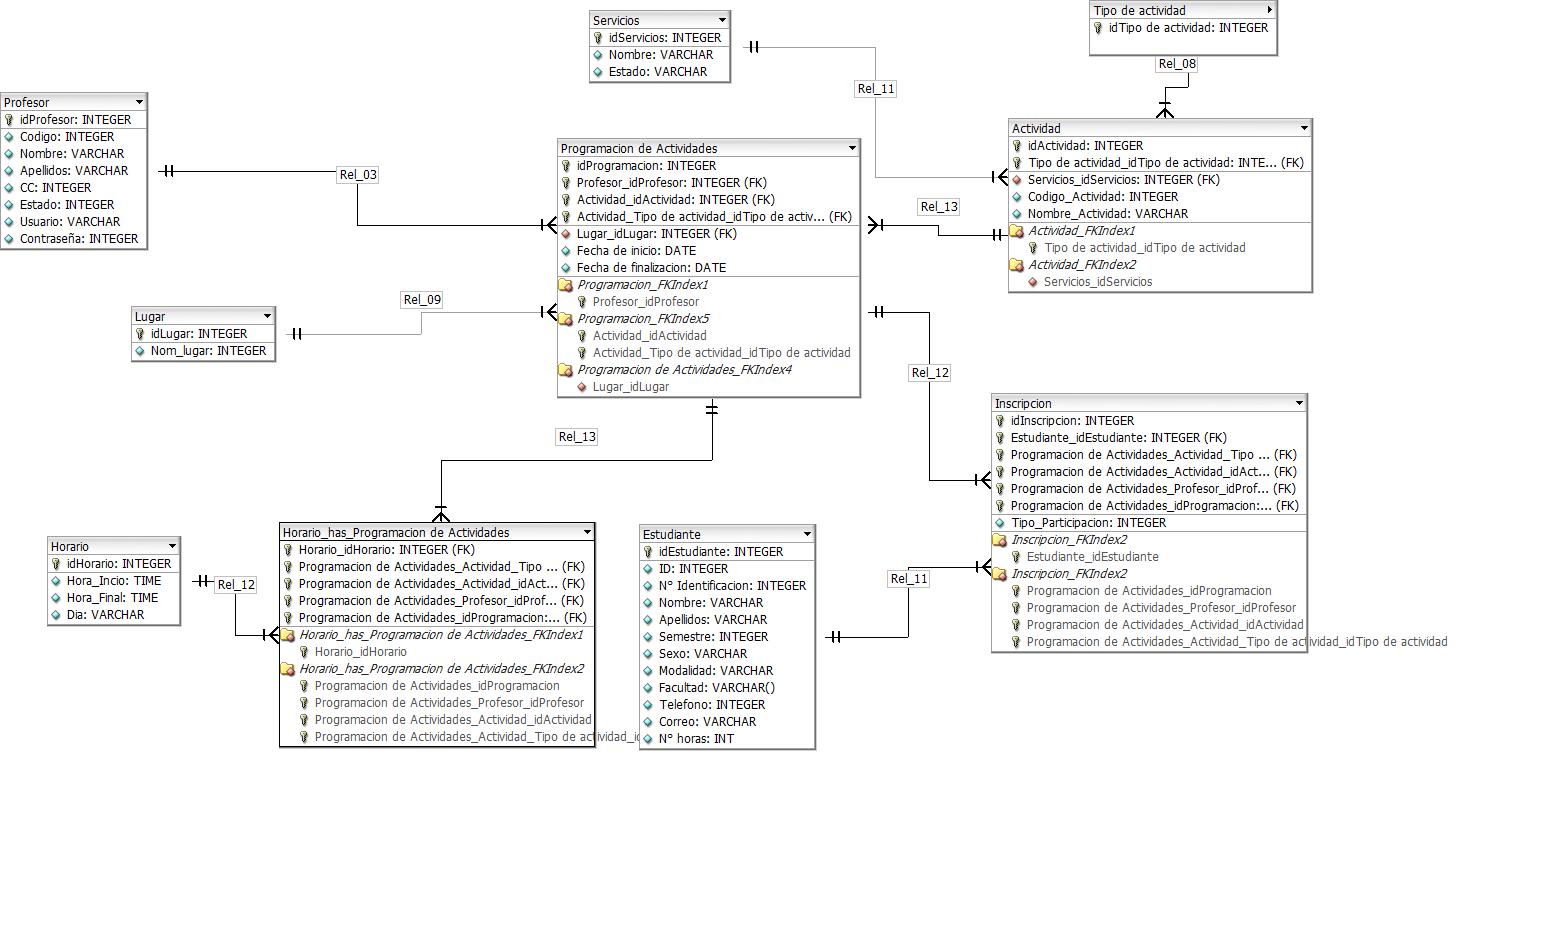
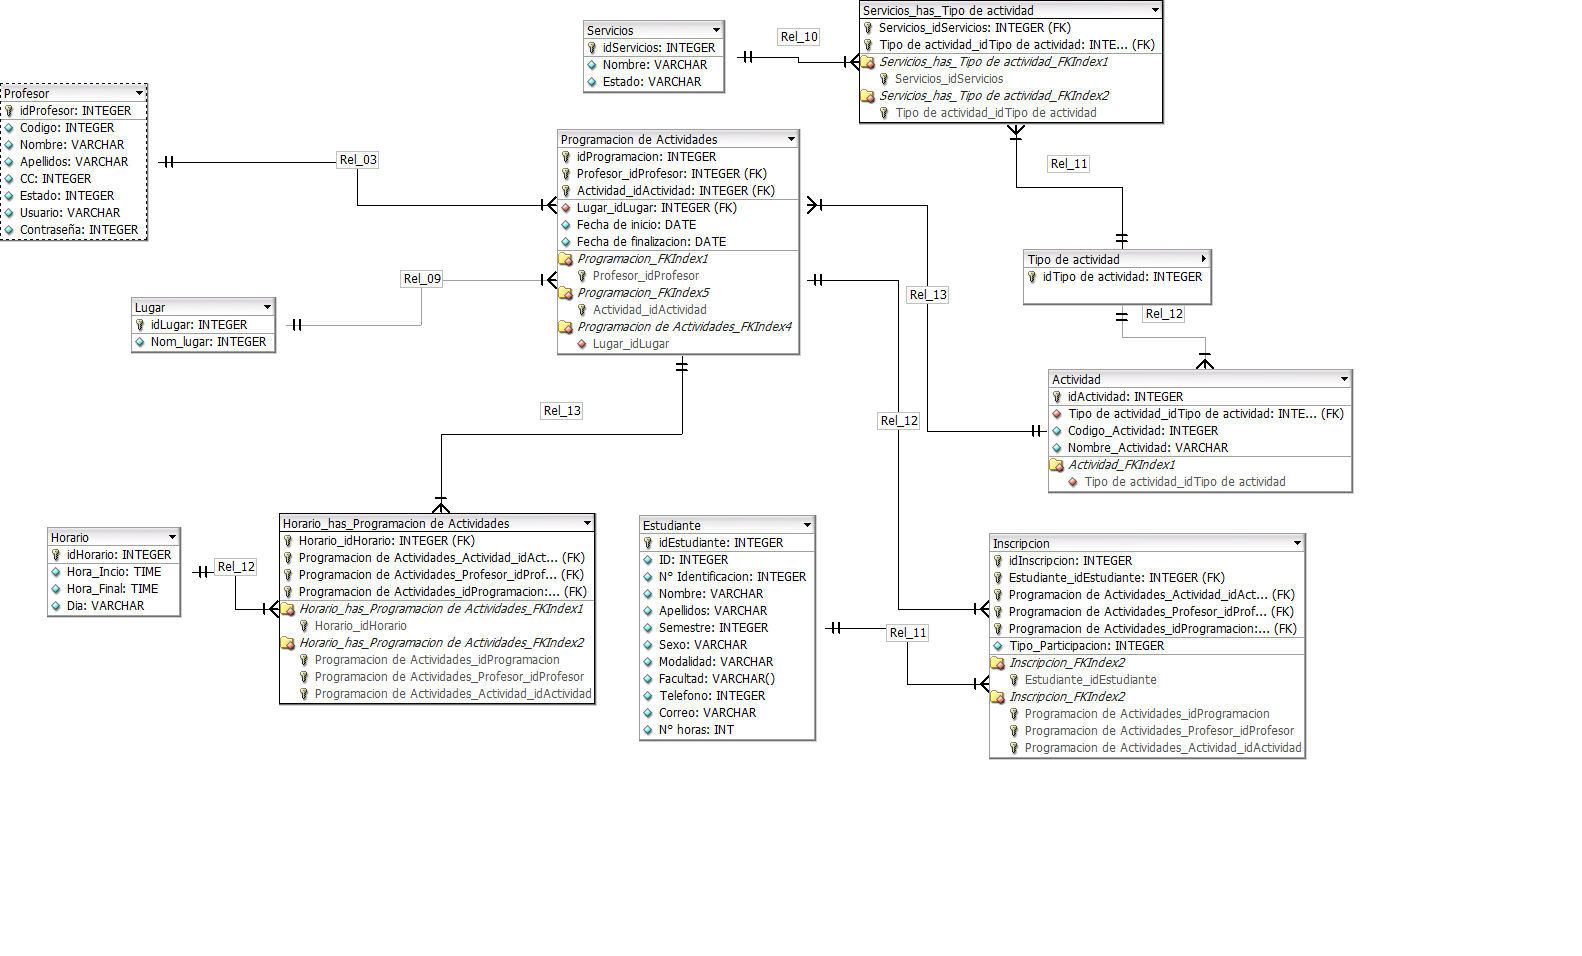
Actualizacion Incripciones
1.Se creo el CRUD de estudiantes
2. Se modifico el modelo estudiante
3.Se hizo la relacion de n:n con servicios y tipos de actividades.
4.Se valido para que no se repitieran los codigos y los correos

diff --git a/inscripcion/templates/inscripcion/editar_estudiante.html b/inscripcion/templates/inscripcion/editar_estudiante.html
@@ -4,12 +4,12 @@
   <section class="panel green_border horizontal_border_2">
     <div class="block-web">
       <div class="header">
-        <h3 class="content-header">Editar Estudiante/ <b>{{a}}</b> </h3>
+        <h3 class="content-header">Editar Estudiante/ <b>{{ a}}</b> </h3>
       </div>
         <form  action="" method="post">
           {% csrf_token %}
           {{ form.non_field_errors }}
-        <ul><label > Codigo :</label></ul>
+        <ul><label > Codigo:</label></ul>
         <ul>{{ form.Codigo_estudiante}}</ul>
         {% if form.Codigo_estudiante.errors %}
           {% for error in form.Codigo_estudiante.errors %}
@@ -19,7 +19,7 @@
           {% endfor %}
         {% endif %}
 
-        <ul><label > Nombre:</label></ul>
+        <ul><label > Nombres:</label></ul>
         <ul>{{ form.nombre}}</ul>
         {% if form.nombre.errors %}
           {% for error in form.nombre.errors %}
@@ -39,7 +39,17 @@
           {% endfor %}
         {% endif %}
 
-        <ul><label > Facultad:</label></ul>
+        <ul><label > Sexo:</label></ul>
+        <ul>{{ form.sexo}}</ul>
+        {% if form.sexo.errors %}
+          {% for error in form.sexo.errors %}
+            <small class="error">
+              {{ error|escape }}
+            </small>
+          {% endfor %}
+        {% endif %}
+
+        <ul><label >Facultad:</label></ul>
         <ul>{{ form.facultad}}</ul>
         {% if form.facultad.errors %}
           {% for error in form.facultad.errors %}
@@ -49,7 +59,7 @@
           {% endfor %}
         {% endif %}
 
-        <ul><label > Semestre:</label></ul>
+        <ul><label >Semestre:</label></ul>
         <ul>{{ form.semestre}}</ul>
         {% if form.semestre.errors %}
           {% for error in form.semestre.errors %}
@@ -59,10 +69,40 @@
           {% endfor %}
         {% endif %}
 
-				<ul><label > Estado:</label></ul>
+        <ul><label >Horas:</label></ul>
+        <ul>{{ form.Horas_estudiante}}</ul>
+        {% if form.Horas_estudiante.errors %}
+          {% for error in form.Horas_estudiante.errors %}
+            <small class="error">
+              {{ error|escape }}
+            </small>
+          {% endfor %}
+        {% endif %}
+
+        <ul><label > Estado:</label></ul>
         <ul>{{ form.Estado}}</ul>
         {% if form.Estado.errors %}
           {% for error in form.Estado.errors %}
+            <small class="error">
+              {{ error|escape }}
+            </small>
+          {% endfor %}
+        {% endif %}
+
+        <ul><label > Telefono:</label></ul>
+        <ul>{{ form.telefono}}</ul>
+        {% if form.telefono.errors %}
+          {% for error in form.telefono.errors %}
+            <small class="error">
+              {{ error|escape }}
+            </small>
+          {% endfor %}
+        {% endif %}
+
+        <ul><label >Correo:</label></ul>
+        <ul>{{ form.correo}}</ul>
+        {% if form.correo.errors %}
+          {% for error in form.correo.errors %}
             <small class="error">
               {{ error|escape }}
             </small>

diff --git a/inscripcion/templates/inscripcion/inscripcion_nueva.html b/inscripcion/templates/inscripcion/inscripcion_nueva.html
@@ -15,9 +15,13 @@
         <th>Codigo </th>
         <th>Nombres</th>
         <th>Apellidos</th>
+        <th>Sexo</th>
         <th>Facultad</th>
         <th>Semestre</th>
+        <th>Horas</th>
         <th>Estado</th>
+        <th>Telefono</th>
+        <th>Correo</th>
         <th>Modificar</th>
         <th>Inscribir</th>
       </tr>
@@ -29,11 +33,15 @@
         <td>{{i.Codigo_estudiante}}</td>
         <td>{{i.nombre}}</td>
         <td>{{i}}</td>
+        <td>{{i.sexo}}</td>
         <td>{{i.facultad}}</td>
         <td>{{i.semestre}}</td>
+        <td>{{i.Horas_estudiante}}</td>
         <td>{{i.Estado}}</td>
+        <td>{{i.telefono}}</td>
+        <td>{{i.correo}}</td>
         <td><a href="{% url "estudiantes-editar" i.id  %}"><span class="glyphicon glyphicon-pencil" aria-hidden="true"></span></a></td>
-        <td><a href= "{% url "estudiantes-editar" i.id  %}"><span class="glyphicon glyphicon-pencil" aria-hidden="true"></span></a></td>
+        <td><a href= "{% url "estudiantes-editar" i.id  %}">Inscribir</a></td>
       </tr>
       {% endfor%}
     </tbody>

diff --git a/inscripcion/templates/inscripcion/lista_estudiantes.html b/inscripcion/templates/inscripcion/lista_estudiantes.html
@@ -16,9 +16,13 @@
         <th>Codigo </th>
         <th>Nombres</th>
         <th>Apellidos</th>
+        <th>Sexo</th>
         <th>Facultad</th>
         <th>Semestre</th>
+        <th>Horas</th>
         <th>Estado</th>
+        <th>Telefono</th>
+        <th>Correo</th>
         <th>Modificar</th>
       </tr>
     </thead>
@@ -27,11 +31,15 @@
       <tr>
         <td><a href="{% url "estudiantes-detalle" i.id  %}">{{i.id}}</a></td>
         <td>{{i.Codigo_estudiante}}</td>
-        <td>{{i.nombre}}</td>
         <td>{{i}}</td>
+        <td>{{i.apellidos}}</td>
+        <td>{{i.sexo}}</td>
         <td>{{i.facultad}}</td>
         <td>{{i.semestre}}</td>
+        <td>{{i.Horas_estudiante}}</td>
         <td>{{i.Estado}}</td>
+        <td>{{i.telefono}}</td>
+        <td>{{i.correo}}</td>
         <td><a href="{% url "estudiantes-editar" i.id  %}"><span class="glyphicon glyphicon-pencil" aria-hidden="true"></span></a></td>
       </tr>
       {% endfor%}

diff --git a/inscripcion/views.py b/inscripcion/views.py
@@ -6,29 +6,30 @@ from django.contrib.auth.decorators import login_required
 
 
 # Create your views here.
-
+@login_required ( login_url = '/login/' )
 def inscripcion_lis (request):
     a = Estudiantes.objects.all()
     return render(request, 'inscripcion/inscripcion_nueva.html', {'a':a})
-
+@login_required ( login_url = '/login/' )
 def inscripcion_forms(request):
 
     return render(request, 'inscripcion/forms/inscripcionesf.html',)
-
+@login_required ( login_url = '/login/' )
 def estudianteslis(request):
     a = Estudiantes.objects.all()
 
     return render(request, 'inscripcion/lista_estudiantes.html', {'a':a})
-
+@login_required ( login_url = '/login/' )
 def agregar_usuario(request):
 
     return render (request, 'inscripcion/forms/agregar_usuario.html',)
+@login_required ( login_url = '/login/' )
 def detalle_estudiante(request, id_Estudiantes):
 
     b = get_object_or_404(Estudiantes, pk=id_Estudiantes)
 
     return render(request, 'inscripcion/detalle_estudiante.html', {'b':b})
-
+@login_required ( login_url = '/login/' )
 def agregar_estudiante(request):
 
     form_estudiante = EstudiantesForm()
@@ -38,10 +39,10 @@ def agregar_estudiante(request):
 
         if form_estudiante.is_valid():
             form_estudiante.save()
-            return render(request, "inscripcion/agregar_estudiante_mensaje.html")
+            return render(request, "inscripcion/lista_estudiantes.html")
 
     return render(request,"inscripcion/agregar_estudiante_form.html", {"form_estudiante":form_estudiante})
-
+@login_required ( login_url = '/login/' )
 def editar_estudiante(request, id_Estudiantes):
     instance = get_object_or_404(Estudiantes, pk=id_Estudiantes)
     a = instance

diff --git a/inscripcion/models.py b/inscripcion/models.py
@@ -1,6 +1,7 @@
 from __future__ import unicode_literals
 from django.db import models
 from programacion.models import Programacion
+from actividades.models import Actividad
 
 
 # Create your models here.
@@ -38,13 +39,13 @@ class Estudiantes(models.Model):
         ('INGENIERIA DE SISTEMAS', 'Ingenieria de sistemas'),
         ('PSICOLOGIA', 'Psicologia'),
     )
-    Codigo_estudiante = models.CharField(max_length=10)
+    Codigo_estudiante = models.CharField(max_length=10, unique=True)
     nombre = models.CharField(max_length=30)
     apellidos = models.CharField(max_length=30)
     semestre = models.CharField(max_length=30 , choices=SEMESTRE_ESTUDIANTE)
     sexo = models.CharField(max_length=30, choices=GENERO_ESTUDIANTE)
     facultad = models.CharField(max_length=30, choices=FACULTAD_ESTUDIANTE)
-    correo = models.CharField(max_length=30)
+    correo = models.CharField(max_length=30, unique=True)
     telefono = models.CharField(max_length=30)
     Horas_estudiante = models.IntegerField()
     inscripcion = models.ManyToManyField(Inscripcion)
